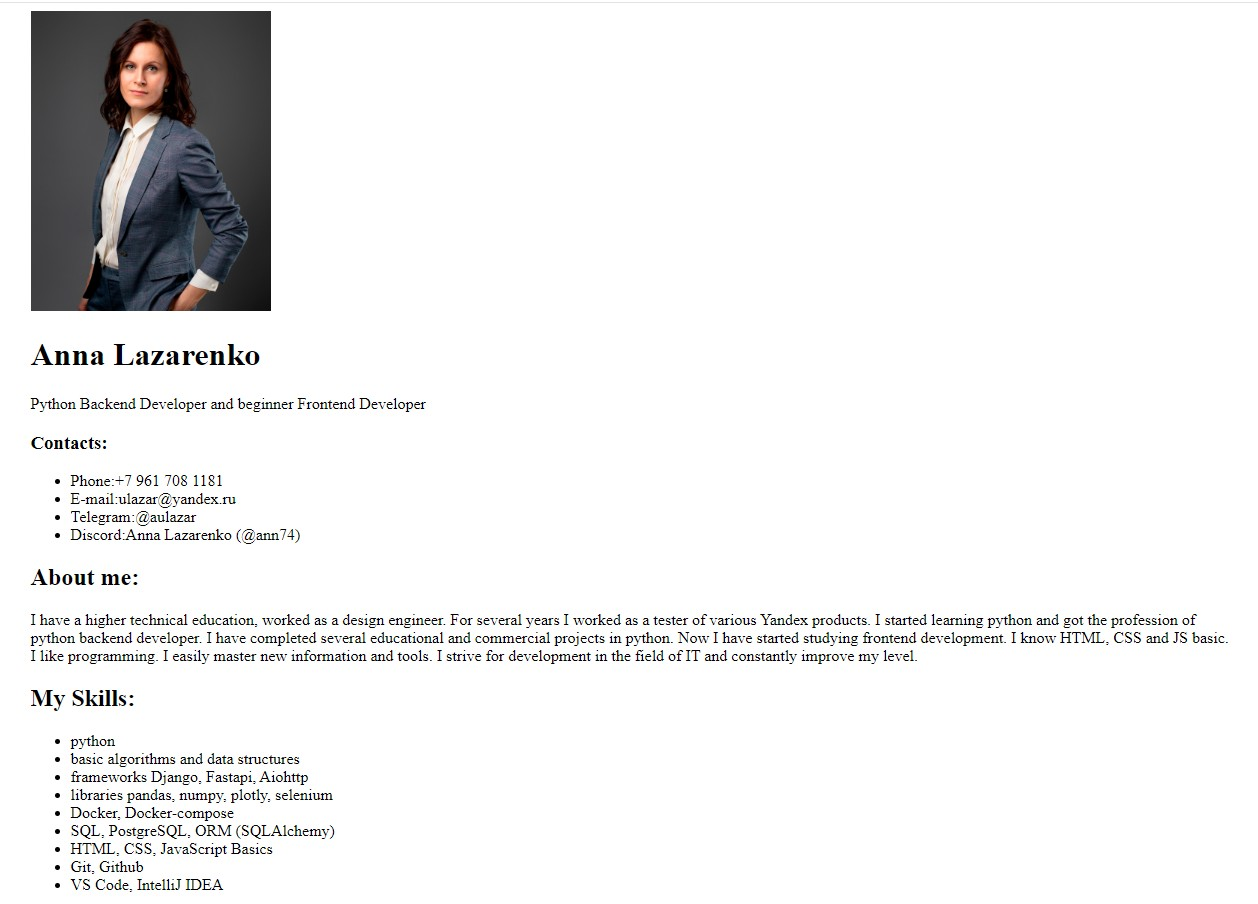
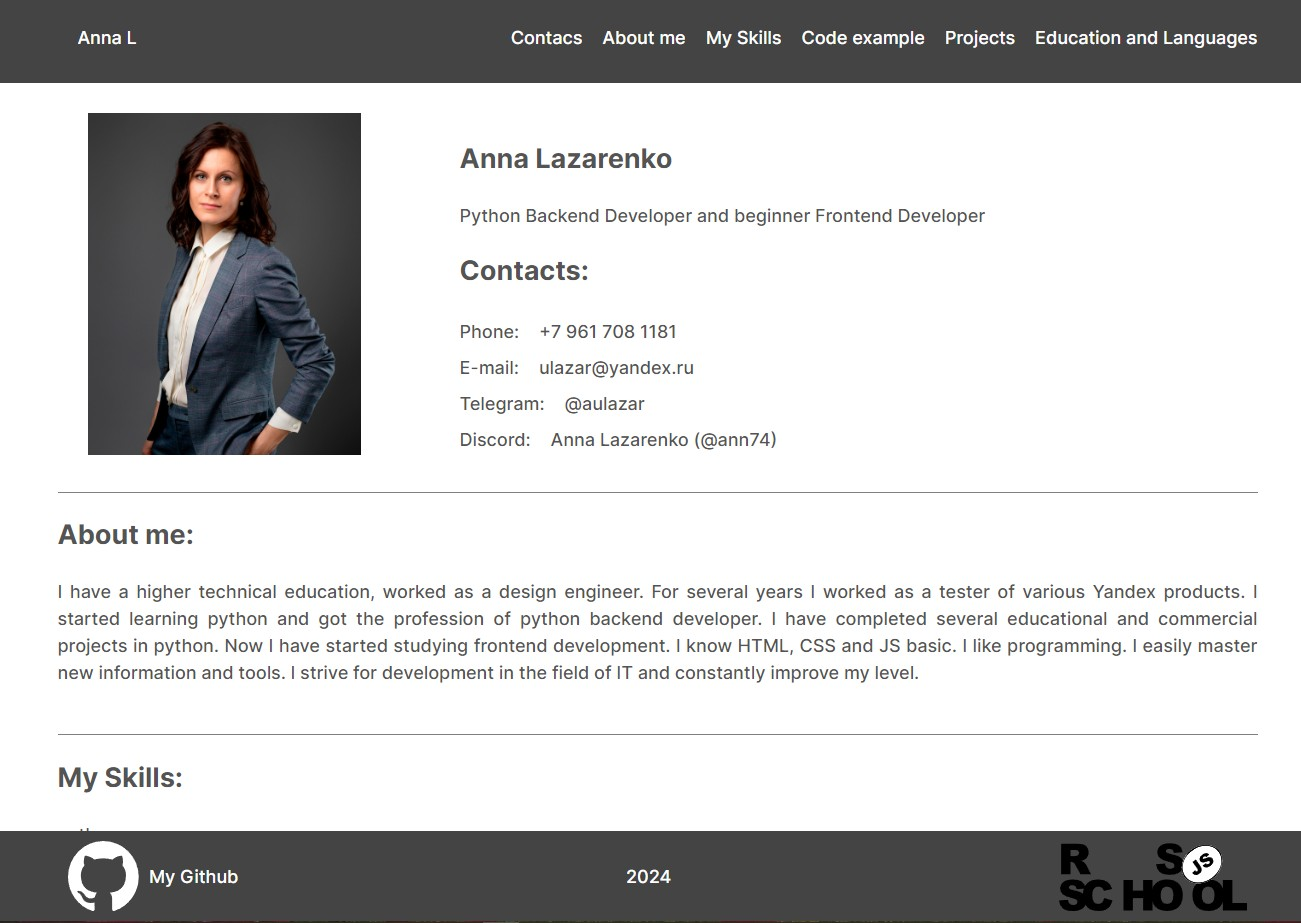
feat: finish decoration with css

diff --git a/index.html b/index.html
@@ -15,7 +15,7 @@
   <header class="header">
     <div class="container">
       <nav class="nav">
-        <span><a href="/" class="nav_link logo">Anna L</a></span>
+        <span><a href="/" class="nav_link">Anna L</a></span>
         <ul class="nav_list">
           <li class="nav_item"><a href="#contacs" class="nav_link">Contacs</a></li>
           <li class="nav_item"><a href="#about" class="nav_link">About me</a></li>
@@ -29,24 +29,24 @@
   </header>
   <main class="main">
     <div class="container">
-      <div class="top_block">
+      <section class="top_section section">
         <div class="photo_block">
-          <img class="avatar" src="images/photo.jpg" alt="Photo" height="300px">
+          <img class="avatar" src="images/photo.jpg" alt="Photo">
         </div>
-        <div class="info">
+        <div class="info" id="contacs">
           <h1>Anna Lazarenko</h1>
           <p>Python Backend Developer and beginner Frontend Developer</p>
-          <h3>Contacts:</h3>
-          <ul class="contacts" id="contacs">
-            <li><span>Phone:</span><span>+7 961 708 1181</span></li>
-            <li><span>E-mail:</span><span>ulazar@yandex.ru</span></li>
-            <li><span>Telegram:</span><span>@aulazar</span></li>
-            <li><span>Discord:</span><span>Anna Lazarenko (@ann74)</span></li>
+          <h2>Contacts:</h2>
+          <ul>
+            <li class="contact"><span>Phone:</span><span>+7 961 708 1181</span></li>
+            <li class="contact"><span>E-mail:</span><span>ulazar@yandex.ru</span></li>
+            <li class="contact"><span>Telegram:</span><span>@aulazar</span></li>
+            <li class="contact"><span>Discord:</span><span>Anna Lazarenko (@ann74)</span></li>
           </ul>
         </div>
-      </div>
-      <div class="block">
-        <h2 id="about">About me:</h2>
+      </section>
+      <section class="section" id="about">
+        <h2>About me:</h2>
         <p>I have a higher technical education, worked as a design engineer.
           For several years I worked as a tester of various Yandex products. I started learning python and got the
           profession of
@@ -54,9 +54,9 @@
           Now I have started studying frontend development. I know HTML, CSS and JS basic.
           I like programming. I easily master new information and tools. I strive for development in the field of IT and
           constantly improve my level.</p>
-      </div>
-      <div class="block">
-        <h2 id="skills">My Skills:</h2>
+      </section>
+      <section class="section" id="skills">
+        <h2>My Skills:</h2>
         <ul class="scills">
           <li>python</li>
           <li>basic algorithms and data structures</li>
@@ -66,13 +66,13 @@
           <li>SQL, PostgreSQL, ORM (SQLAlchemy)</li>
           <li>HTML, CSS, JavaScript Basics</li>
           <li>Git, Github</li>
-          <li>VS Code, IntelliJ IDEA</li>
+          <li>VS Code, Pycharm</li>
         </ul>
-      </div>
-      <div class="block">
-        <h2 id="code">Code example:</h2>
+      </section>
+      <section class="section" id="code">
+        <h2>Code example:</h2>
         <pre>
-            <code lang="JavaScript">
+            <code class="code">
               function multiply(a, b){
                 return a * b;
               }
@@ -80,20 +80,22 @@
               alert( result );
             </code>
           </pre>
-      </div>
-      <div class="block">
-        <h2 id="projects">Projects:</h2>
-        <div class="card">
-          <h3><a href="https://annaulazar.github.io/rsschool-cv/" target="_blank">CV html</a></h3>
-          <img src="images/CV.jpg" alt="CV html">
+      </section>
+      <section class="section" id="projects">
+        <h2>Projects:</h2>
+        <div class="projects">
+          <div class="card">
+            <h3><a href="https://annaulazar.github.io/rsschool-cv/" target="_blank">CV html</a></h3>
+            <img src="images/CV.jpg" alt="CV html">
+          </div>
+          <div class="card">
+            <h3><a href="https://github.com/annaulazar/vk_bot_project" target="_blank">Chat-bot with game "Field of
+                miracles"</a></h3>
+            <img src="images/vkbot.jpg" alt="Chat-bot">
+          </div>
         </div>
-        <div class="card">
-          <h3><a href="https://github.com/annaulazar/vk_bot_project" target="_blank">Chat-bot with game "Field of
-              miracles"</a></h3>
-          <img src="images/vkbot.jpg" alt="Chat-bot">
-        </div>
-      </div>
-      <div class="block">
+      </section>
+      <section class="section">
         <h2 id="education">Education and Languages:</h2>
         <div class="education_block">
           <div class="left_block">
@@ -126,20 +128,25 @@
             </ul>
           </div>
         </div>
-      </div>
+      </section>
     </div>
   </main>
   <footer class="footer">
-    <span class="github">
-      <a href="https://github.com/annaulazar" target="_blank">
-        <img src="images/github-mark.svg" alt="github"><span>My Github</span>
-      </a>
-    </span>
-    <span>2024</span>
-    <span class="logo">
-      <a href="https://rs.school/courses/javascript-preschool-ru" target="_blank"><img src="images/rs-school-logo.svg"
-          alt="RSS"></a>
-    </span>
+    <div class="container">
+      <div class="footer_menu">
+        <div class="logo">
+          <a href="https://github.com/annaulazar" target="_blank">
+            <img src="images/github-mark-white.svg" alt="github" class="footer_logo"><span>My Github</span>
+          </a>
+        </div>
+        <div>2024</div>
+        <div class="logo">
+          <a href="https://rs.school/courses/javascript-preschool-ru" target="_blank">
+            <img src="images/rs-school-logo.svg" alt="RSS" class="footer_logo">
+          </a>
+        </div>
+      </div>
+    </div>
   </footer>
 
 </body>

diff --git a/style.css b/style.css
@@ -8,7 +8,11 @@ html {
 
 body {
   font-family: 'Inter', sans-serif;
+  font-size: 18px;
+  font-weight: 400;
+  line-height: 1.5;
   padding: 0;
+  margin: 0;
   min-height: 100vh;
   color: #555454;
 }
@@ -24,7 +28,10 @@ body {
 
 .header {
   padding: 20px 0;
-
+  background-color: rgb(68, 68, 68);
+  position: sticky;
+  top: 0;
+  width: 100%;
 }
 
 ul {
@@ -53,8 +60,131 @@ a {
 .nav_link {
   padding-left: 20px;
   line-height: 50px;
+  color: white;
+  transition: 0.3s;
 }
 
-.logo {
-  padding-left: 0;
+.nav_link:hover {
+  color: rgb(143, 141, 141);
+}
+
+.photo_block {
+  width: 30%;
+}
+
+.avatar {
+  width: 80%;
+}
+
+.info {
+  width: 70%;
+  padding-left: 30px;
+}
+
+.contact {
+  line-height: 2;
+}
+
+.contact>span:last-child {
+  padding-left: 20px;
+}
+
+.section {
+  border-top: solid gray 1px;
+  padding-bottom: 30px;
+}
+
+.top_section {
+  display: flex;
+  align-items: center;
+  padding: 30px;
+  border-top: none;
+}
+
+#about > p {
+  text-align: justify;
+}
+
+.scills {
+  list-style: disc;
+  padding-left: 80px;
+}
+
+.scills > li {
+  line-height: 2;
+}
+
+.code {
+  position: relative;
+  left: -70px;
+}
+
+.section:last-child {
+  padding-bottom: 120px;
+}
+
+.projects {
+  display: flex;
+  justify-content: space-between;
+
+}
+
+.card {
+  width: 48%;
+}
+
+.card img {
+  width: 100%;
+}
+
+.projects a {
+  color: #767575;
+}
+
+.projects a:hover {
+  color: #383737;
+}
+
+.education_block {
+  display: flex;
+  line-height: 2;
+}
+
+.left_block {
+  padding-left: 30px;
+  width: 150px;
+}
+
+.footer {
+  background-color: rgb(68, 68, 68);
+  color: white;
+  position: fixed;
+  bottom: 0;
+  width: 100%;
+
+}
+
+.footer_menu {
+  display: flex;
+  justify-content: space-between;
+  align-items: center;
+  padding: 10px;
+}
+
+.footer_menu a {
+  color: white;
+  display: flex;
+  align-items: center;
+}
+
+.footer_menu a:hover {
+  color: rgb(143, 141, 141);
+}
+
+.footer_menu span {
+  padding-left: 10px;
+}
+
+.footer_logo {
+  height: 70px;
 }
